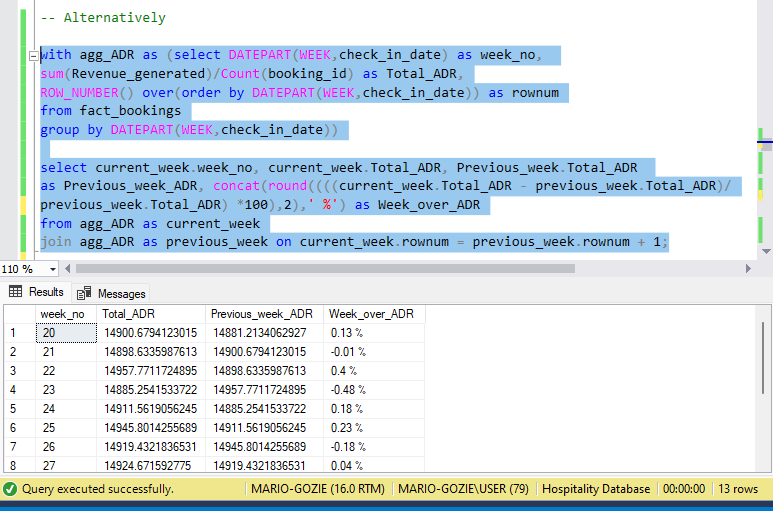
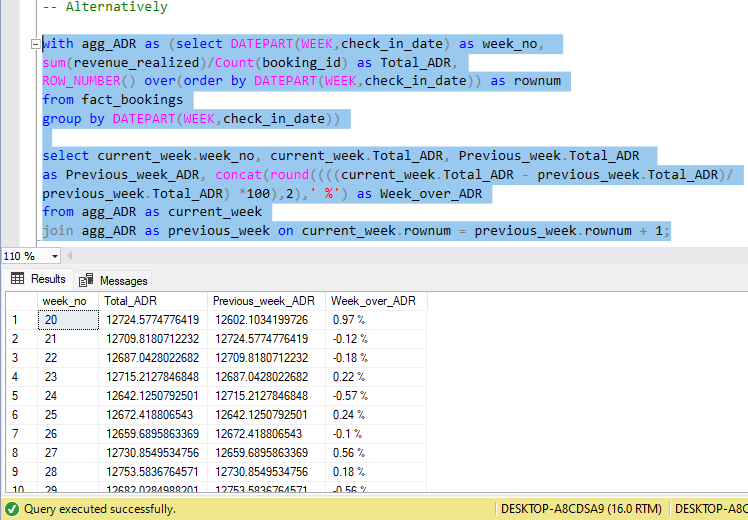
asss

diff --git a/README.md b/README.md
@@ -196,6 +196,33 @@ There were three major points discussed at this meeting which were:
 `as Percentage_per_Platform`
 `from agg_booking_per_Platform;`
 
+![Alt Text]()
+
+### REALIZATION PER PLATFORM
+
+`with Total_check_out as (select booking_platform,cast(count(booking_status) as float)`
+`as checkout from fact_bookings`
+`where booking_status = 'Checked Out'`
+`group by booking_platform),`
+
+`check_out_and_bookings as (select a.booking_platform, checkout, count(booking_id) as bookings`
+`from Total_check_out as a join fact_bookings as b on`
+`b.booking_platform = a.booking_platform`
+`group by a.booking_platform, checkout)`
+
+`select booking_platform, concat(round((checkout* 100/bookings),2),' %')`
+`as Total_Realization from check_out_and_bookings`
+
+![Alt Text]()
+
+### ADR PER PLATFORM
+
+`select booking_platform, format(round((sum(revenue_realized)/`
+`count(booking_id)),2),'c') as ADR from  fact_bookings`
+`group by booking_platform`
+
+![Alt Text]()
+
 ### PERCENTAGE BOOKINGGS PER ROOM CLASS
 
 `with agg_room_count as (select room_category, room_class,`
@@ -362,48 +389,25 @@ There were three major points discussed at this meeting which were:
 
 * Revenue/Capacity
 
-`with Total_RevPARS as(select DATEPART(WEEK,a.check_in_date) as week_no,`
-`sum(a.revenue_realized) /SUM(b.capacity) as Total_RevPAR,`
-`Row_number() over(order by DATEPART(WEEK,a.check_in_date)) as Row_num`
-`from fact_bookings as a`
-`join fact_aggregated_bookings as b on a.check_in_date = b.check_in_date`
-`group by DATEPART(WEEK,a.check_in_date)),`
+`with Total_Revenues as (select DATEPART(week, check_in_date) as weeks, sum(revenue_realized) as Total_rev`
+`from fact_bookings`
+`group by DATEPART(week, check_in_date)),`
 
-`self_joined_table as (select a.week_no as Aweek_no, a.Row_num as ARow_no,`
-`a.Total_RevPAR as ATotal_RevPAR, b.week_no as Bweek_no, b.Row_num as BRownum,`
-`b.Total_RevPAR as BTotal_RevPAR`
-`from Total_RevPARS as a join Total_RevPARS as b`
-`on a.week_no = b.week_no and b.Row_num = a.row_num),`
+`caps_included as (select a.weeks, Total_rev, sum(capacity) as Total_capacity,` 
+`(Total_rev/sum(capacity)) as RevPar,`
+`ROW_NUMBER() over(order by weeks) as rownum`
+`from Total_Revenues as a`
+`join fact_aggregated_bookings as b on a.weeks = DATEPART(week, check_in_date)`
+`group by a.weeks,Total_rev),`
 
-`Current_and_Previous as (select Aweek_no, ATotal_RevPAR,`
-`lag(BTotal_RevPAR) over(order by (select null)) as Previous`
-`from self_joined_table)`
+`current_and_Previous_week as (select current_week.weeks, current_week.Total_rev, current_week.Total_capacity,` 
+`current_week.RevPar as current_RevPAR,`
+`previous_week.RevPAR as Previous_Revpar`
+`from caps_included as current_week join`
+`caps_included as previous_week on current_week.rownum = previous_week.rownum + 1)`
 
-`select Aweek_no, concat(round((((ATotal_RevPAR-Previous) *100)/`
-`Previous),2),' %') WOW_Revenue_Per_Available_Room from Current_and_Previous;`
-
-![Alt Text]()
-
-* Alternatively
-
-`with Total_capacity_revenue as (select  DATEPART(WEEK,a.check_in_date) as week_no,`
-`sum(b.revenue_realized) as Total_revenue,`  
-`sum(capacity) as Total_Capacity` 
-`from fact_aggregated_bookings as a` 
-`join fact_bookings as b on DATEPART(WEEK,a.check_in_date)=`
-`DATEPART(WEEK,b.check_in_date)`
-`group by DATEPART(WEEK,a.check_in_date)),`
-
-`Total_RevPAR as (select week_no, Total_revenue/Total_Capacity`
-`as RevPAR, ROW_NUMBER() over(order by week_no) as Row_num`
-`from Total_capacity_revenue)`
-
-`select current_week.week_no, current_week.RevPAR, Previous_week.RevPAR,`
-`concat(round((((current_week.RevPAR - Previous_week.RevPAR)*100)/`
-`Previous_week.RevPAR),2),' %') as Week_over_week_RevPAR`
-`from Total_RevPAR as current_week`
-`join Total_RevPAR as Previous_week` 
-`on current_week.Row_num = Previous_week.Row_num + 1;`
+`select weeks, concat(round((((current_RevPAR-Previous_revPAR)/`
+`Previous_Revpar)*100),2),' %') as WOW_REVPAR from current_and_Previous_week;`
 
 ![Alt Text]()
 
@@ -499,6 +503,7 @@ For this task, I will be using Relationship to join 4 of the tables because its 
 * DAILY BOOKING RATE NIGHT (DBRN) _(Calculated Daily Booking Night Rate (DBRN))_: `[Calculated Total Bookings]/[Calculated Total No of Days]`
 * DAILY SELLABLE ROOM NIGHT (DSRN) _(Calculated Daily Sellable Room (DSRN))_: `[Calculated Total Capacity]/[Calculated Total No of Days]`
 * DAILY USABLE ROOM NIGHT (DURN) _(Calculated Daily Usable Room Night (DURN))_: `[Calculated Total Check-out]/[Calculated Total No of Days]`
+* CREATED BOOKING PLATFORM: **I Created this because the booking platform names started with small letters and I want them to be in proper format i.e starting with capital letters.** : `Proper([Booking Platform])`
 * WEEK OVER WEEK REVENU PERCENTAGE DIFFERECE _(Calculated week over week Revenue)_: `(SUM([Revenue Generated])-LOOKUP(SUM([Revenue Generated]),-1))/ABS(LOOKUP(SUM([Revenue Generated]),-1))`
 * WOW PERCENTAGE OCCUPANCY -(Calculated WoW change in % occupancy)_:
 * 
